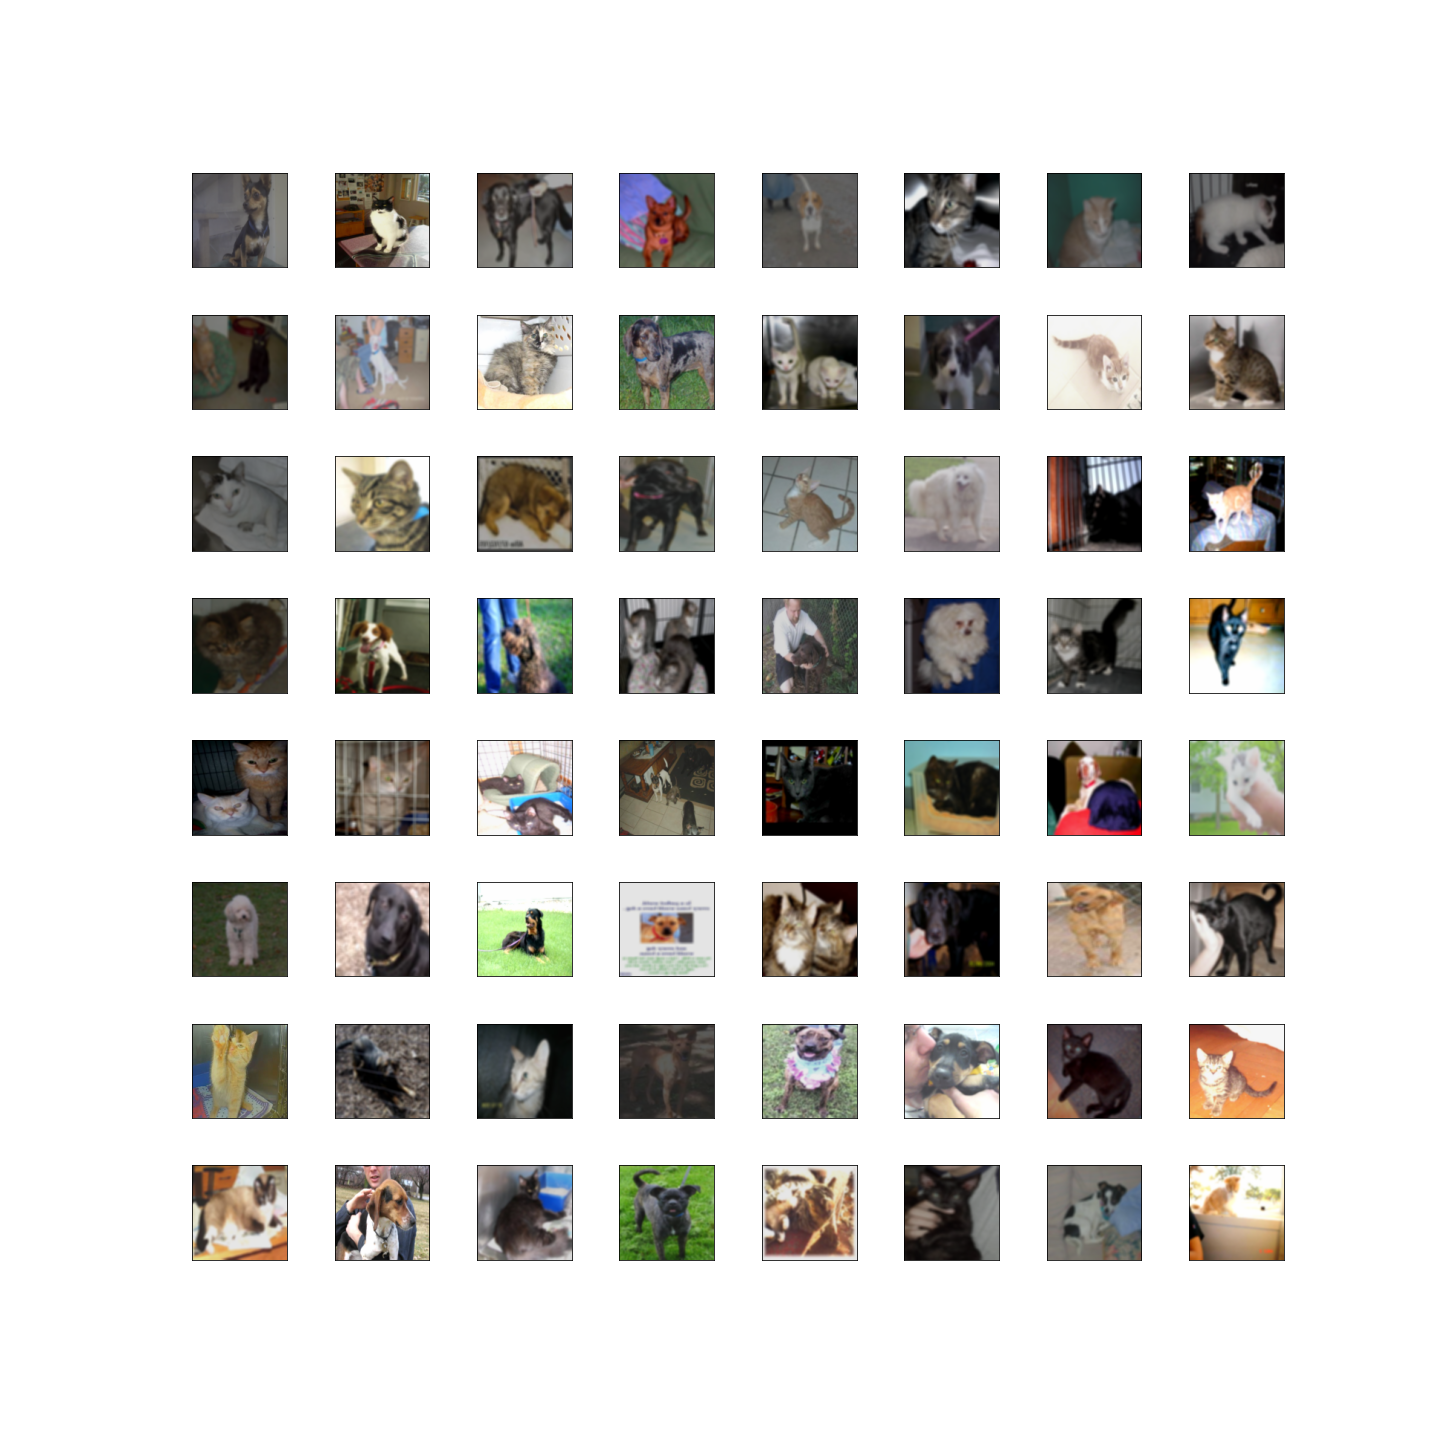
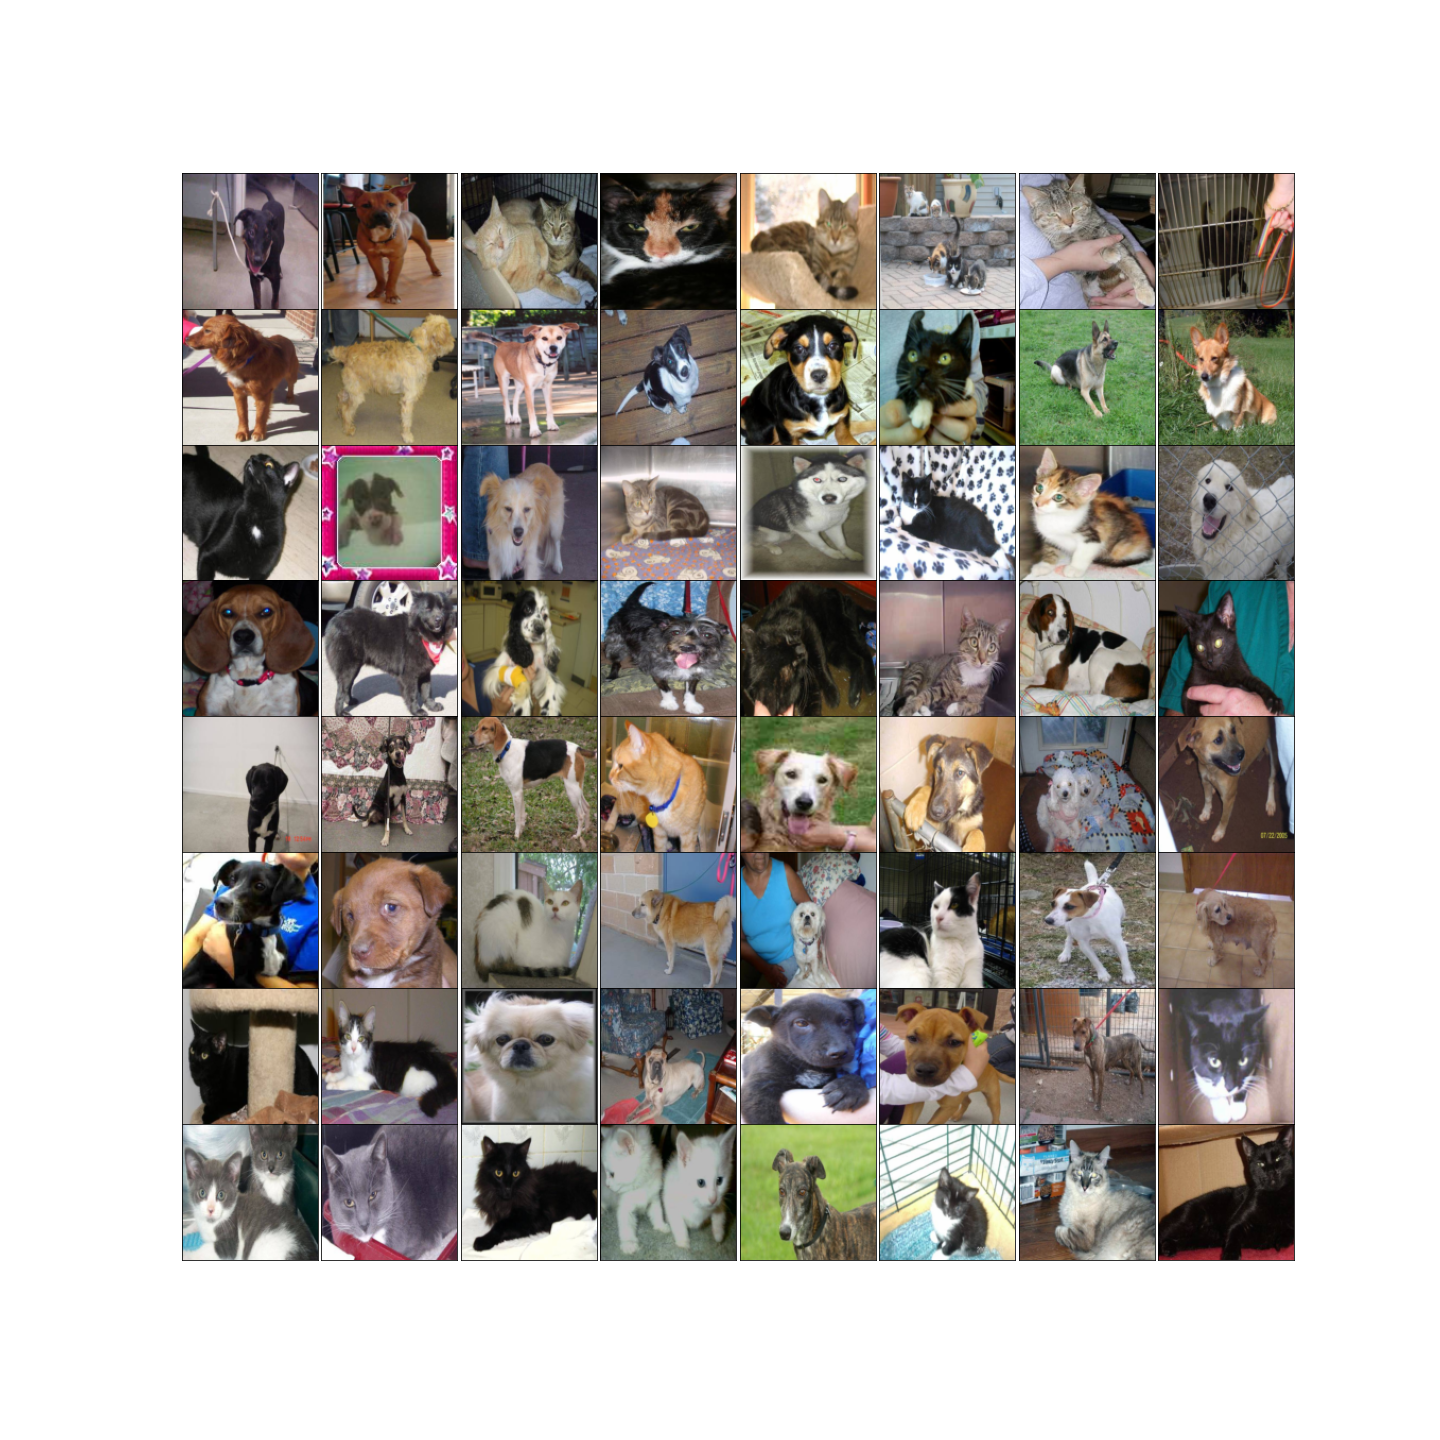
test imgs

diff --git a/datasets/cats_and_dogs.py b/datasets/cats_and_dogs.py
@@ -103,7 +103,7 @@ class CatsAndDogsDataset(Dataset):
             label = self.labels[idx]
             
             # return the sample (img (tensor)), object class (int), and the path optionally
-            return img, label#, self.imgs[idx]
+            return img, label, self.imgs[idx]
 
         # if the image is invalid, show the exception
         except (ValueError, RuntimeWarning,UserWarning) as e:
@@ -122,8 +122,8 @@ class CatsAndDogsDataset(Dataset):
         data_loader = DataLoader(self,batch_size,shuffle=True)
 
         # get the first batch
-        #(imgs, labels,urls) = next(iter(data_loader))
-        (imgs, labels) = next(iter(data_loader))
+        (imgs, labels,urls) = next(iter(data_loader))
+        #(imgs, labels) = next(iter(data_loader))
         imgs,labels = imgs.to(device), labels.to(device)
         preds = None
 
@@ -138,7 +138,8 @@ class CatsAndDogsDataset(Dataset):
         obj_classes = list(self.classes)
         
         fig,ax_array = plt.subplots(rows,cols,figsize=(20,20))
-        fig.subplots_adjust(hspace=0.5)
+        #fig.subplots_adjust(hspace=0.5)
+        plt.subplots_adjust(wspace=0, hspace=0)
         for i in range(rows):
             for j in range(cols):
                 idx = i*rows+j
@@ -155,11 +156,11 @@ class CatsAndDogsDataset(Dataset):
                 #print(imgs[idx].size(),torch.min(imgs[idx]))
                 ax_array[i,j].imshow((imgs[idx].permute(1, 2, 0)+1)/2)
 
-                ax_array[i,j].set_title(text,color="white")
+                #ax_array[i,j].set_title(text,color="white")
                 ax_array[i,j].set_xticks([])
                 ax_array[i,j].set_yticks([])
         plt.savefig('plot.png')
-        #print(urls)
+        print(urls)
         #plt.show()
 
     def viz_mispredict(self,wrong_samples,wrong_preds,actual_preds):
